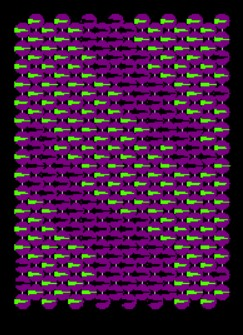
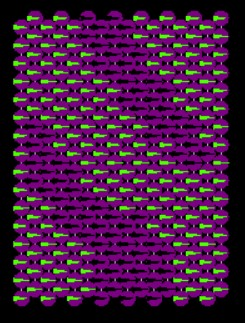
made the standard approach absolutely incredible, the smoothed approach is giving me some trouble

diff --git a/Lab2/fs/usr_code.py b/Lab2/fs/usr_code.py
@@ -112,5 +112,6 @@ def usr(robot):
 		coords_in_N[i][0] = 29 - coords_in_N[i][0]
 
 	for c in range(0,len(coords_in_N)):
-		if (coords_in_N[c][0]) <= pos[0] <= (coords_in_N[c][0]+1) and (coords_in_N[c][1]) <= pos[1] <= (coords_in_N[c][1]):
+		if (coords_in_N[c][0]) <= pos[0] <= (coords_in_N[c][0]+1) and (coords_in_N[c][1]) <= pos[1] <= (coords_in_N[c][1]) \
+			or pos[0] <= 2 or pos[0] >=28:
 			robot.set_led(0,100,0)
